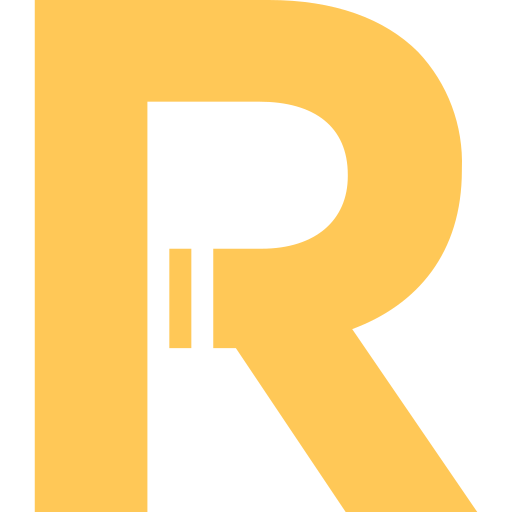
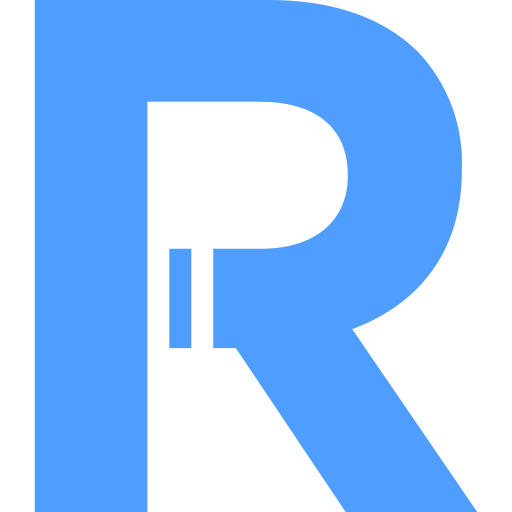
Update 18.08.26

diff --git a/src/App.jsx b/src/App.jsx
@@ -1,69 +1,115 @@
 import { useEffect, useState } from "react";
-import logo from '../assets/img/letra-r.png'
-import user from '../assets/img/usuario.png'
-import moeda from '../assets/img/moeda.png'
-import lupa from '../assets/img/lupa.png'
-import sifrao from '../assets/img/sifrao.png'
+import logo from "../assets/img/letra-r.png"
+import user from "../assets/img/usuario.png"
+import moeda from "../assets/img/moeda.png"
+import lupa from "../assets/img/lupa.png"
+import sifrao from "../assets/img/sifrao.png"
 import reparte_log from "../assets/img/campanha-digital.png"
 import caridade from "../assets/img/caridade.png"
 import missao from "../assets/img/missao.png"
 import ads from "../assets/img/anuncios-online.png"
-import '../assets/css/App.css'
+import adicionar from "../assets/img/adicionar.png"
+
+import logo_night from "../assets/img/letra-r-night.png"
+import user_night from "../assets/img/usuario-night.png"
+// import moeda_night from "../assets/img/moeda-night.png"
+import lupa_night from "../assets/img/lupa-night.png"
+import sifrao_night from "../assets/img/sifrao-night.png"
+import reparte_log_night from "../assets/img/campanha-digital-night.png"
+import caridade_night from "../assets/img/caridade-night.png"
+import missao_night from "../assets/img/missao-night.png"
+import ads_night from "../assets/img/anuncios-online-night.png"
+import adicionar_night from "../assets/img/adicionar-night.png"
+import "../assets/css/App.css"
 
 function App(){
   /* Variáveis e constantes */
 
   return ( /* Página */
     <>
-      <header className='header App-header flex-line sticky'>
-        <div className='line-center'><img src={logo} alt='Logo'/></div>
-        <div className='line-center'>
-          <div className='relative border'>
-            <img src={lupa} alt='lupa'/>
-            <input className='relative' type='text'/></div>
+      <header className="header App-header flex-line sticky">
+        <div>
+          <picture className="picture">
+            <source srcSet={logo_night} media="(prefers-color-scheme: dark)"/>
+            <img src={logo} alt="Logo"/>
+          </picture>
+        </div>
+        <div className="line-center">
+          <div className="relative border">
+            <picture>
+              <source srcSet={lupa_night} media="(prefers-color-scheme: dark)"/>
+              <img src={lupa} alt="lupa"/>
+            </picture>
+            <input className="relative" type="text"/></div>
           </div>
-        <div className='line-center'>
-          <a href='# '><i className='line-center'>
-            <img src={sifrao} alt='sifrao'/>
+        <div className="line-center">
+          <a href="# "><i className="line-center">
+            <picture>
+              <source srcSet={sifrao_night} media="(prefers-color-scheme: dark)"/>
+              <img src={sifrao} alt="sifrao"/>
+            </picture>
             <output>0.000.000,00</output>
           </i></a>
-          <a href="#Página de Usuário"><img src={user} alt='user'/></a>
+          <a href="#Página de Usuário">
+            <picture>
+              <source srcSet={user_night} media="(prefers-color-scheme: dark)"/>
+              <img src={user} alt="user"/>
+            </picture>
+          </a>
         </div>
       </header>
 
-      <section className='column-center'>
+      <section className="column-center">
         <output><h2>Reparte</h2></output>
         <output><h1>0.000.000,00</h1></output>
         <p>Se sobra, acumula. Se falta, reparte.</p>
       </section>
 
       <section>
-        <div className='flex-around'>
-          <div className='column-center'>
+        <div className="flex-around">
+          <div className="column-center" alt="Caridade" title="Caridade">
             <h3>Caridade</h3>
-            <img src={caridade} alt='moeda'/>
+            <picture>
+              <source srcSet={caridade_night} media="(prefers-color-scheme: dark)"/>
+              <img src={caridade}/>
+            </picture>
           </div>
-          <div className='column-center'>
+          <div className="column-center" alt="Reparte Log" title="Reparte Log">
             <h3>Reparte Log</h3>
-            <img src={reparte_log} alt='moeda'/>
+            <picture>
+              <source srcSet={reparte_log_night} media="(prefers-color-scheme: dark)"/>
+              <img src={reparte_log}/>
+            </picture>
           </div>
-          <div className='column-center'>
+          <div className="column-center" alt="Missões" title="Missões">
             <h3>Missões</h3>
-            <img src={missao} alt='moeda'/>
+            <picture>
+              <source srcSet={missao_night} media="(prefers-color-scheme: dark)"/>
+              <img src={missao}/>
+            </picture>
           </div>
         </div>
-        <div className='flex-around'>
-          <div className='column-center'>
+        <div className="flex-around">
+          <div className="column-center" alt="Acúmulo" title="Acúmulo">
             <h3>Acúmulo</h3>
-            <img src={ads} alt='moeda'/>
+            <picture>
+              <source srcSet={ads_night} media="(prefers-color-scheme: dark)"/>
+              <img src={ads}/>
+            </picture>
           </div>
-          <div className='column-center'>
-            <h3>2</h3>
-            <img src={moeda} alt='moeda'/>
+          <div className="column-center" alt="Adicionar" title="Adicionar">
+            <h3>+</h3>
+            <picture>
+              <source srcSet={adicionar_night} media="(prefers-color-scheme: dark)"/>
+              <img src={adicionar}/>
+            </picture>
           </div>
-          <div className='column-center'>
-            <h3>3</h3>
-            <img src={moeda} alt='moeda'/>
+          <div className="column-center" alt="Adicionar" title="Adicionar">
+            <h3>+</h3>
+            <picture>
+              <source srcSet={adicionar_night} media="(prefers-color-scheme: dark)"/>
+              <img src={adicionar}/>
+            </picture>
           </div>
         </div>
       </section>
@@ -71,7 +117,7 @@ function App(){
       <section></section>
 
       <footer>
-
+        
       </footer>
     </>
   )

diff --git a/assets/css/App.css b/assets/css/App.css
@@ -35,11 +35,16 @@ header{display: flex;
     display: flex;
     background-color: var(--surface);
     border: 1px solid var(--border);
-    /* padding: 0.5vh; */
-    &>img{
-      width: 2vh;
-      height: 2vh;
-      padding: 0.5vh;
+    &>picture{
+      display: flex;
+      align-items: center;
+      justify-content: center;
+    }
+    &>picture>img{
+      width: 3vh;
+      height: 3vh;
+      display: block;
+      padding: 0.2vh;
     }
     &>input{
       flex: 1;
@@ -56,10 +61,7 @@ header{display: flex;
 header>div:nth-child(3){
   &>a>i{
     color: var(--text-light);
-    &>a>img{
-      max-width: 4vh;
-      max-height: 4vh;
-    }
+    &>a>img{max-width: 4vh; max-height: 4vh;}
     &>output{
       padding-right: 1.5vh;
     }
@@ -71,11 +73,23 @@ section:nth-child(2){
 }
 section:nth-child(3){
   background-color: var(--surface-alt);
-  img{
-    max-width: 10vh;
-    max-height: 10vh;
+  img{max-width: 10vh; max-height: 10vh;}
+  div{margin: 2vh;
+    &>div{
+      background-color: var(--surface);
+      width: 25%;
+      padding: 1vh;
+      border: 1px solid var(--border);
+      border-radius: 10px;
+      &>h3{
+        color: var(--text-light);
+        margin-block: 1.5vh;
+      }
+      &>img{
+        margin-block: 1.5vh;
+      }
+    }
   }
-  div{margin: 2vh;}
 }
 
 footer{}

diff --git a/assets/css/index.css b/assets/css/index.css
@@ -23,6 +23,7 @@ a{text-decoration: none;}
   --mono: ui-monospace, Consolas, monospace;
 }
 
+.picture{padding: 0; margin: 0; height: 0;}
 .border{border-radius: 10px;}
 .flex-line{display: flex; flex-direction: row; justify-content: space-between;}
 .column-center{display: flex; align-items: center; flex-direction: column; justify-content: center;}
